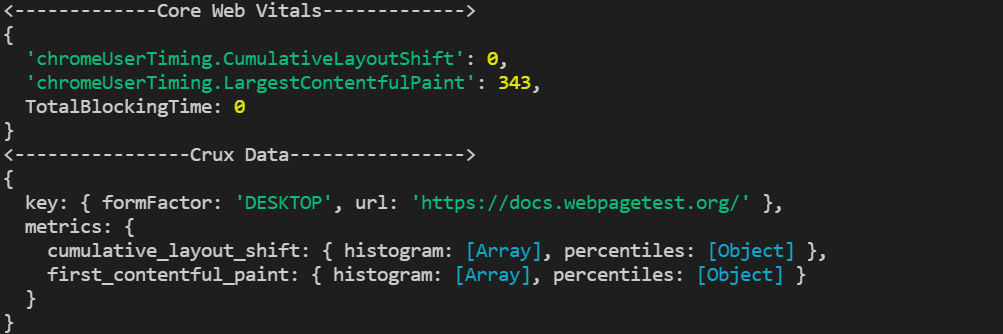
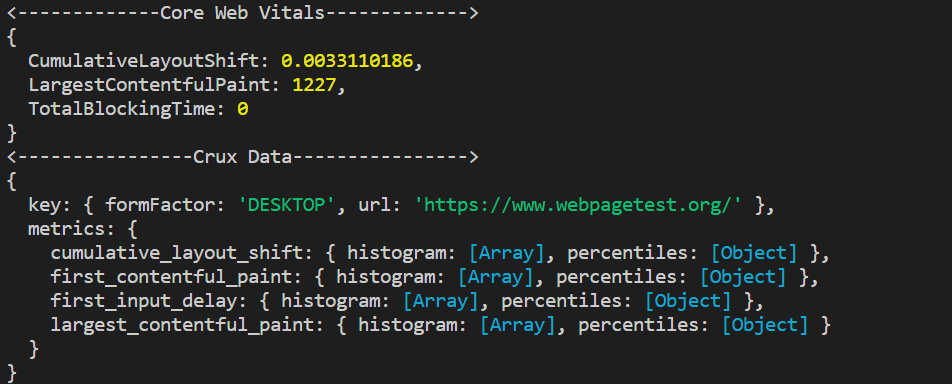
Easy to understand recipe

diff --git a/webvitals-crux.js b/webvitals-crux.js
@@ -2,13 +2,7 @@ const WebPageTest = require("webpagetest");
 
 const wpt = new WebPageTest("https://www.webpagetest.org", "YOUR_API_KEY");
 
-keys = [
-  "chromeUserTiming.CumulativeLayoutShift",
-  "chromeUserTiming.LargestContentfulPaint",
-  "TotalBlockingTime",
-];
-
-let testURL = "https://docs.webpagetest.org/"; //Your URL here
+let testURL = "https://www.webpagetest.org/"; //Your URL here
 
 let options = {
   firstViewOnly: true,
@@ -19,15 +13,12 @@ let options = {
 
 wpt.runTest(testURL, options, (err, result) => {
   if (result) {
-    const data = keys.reduce(
-      (key, value) => ({
-        ...key,
-        [value]: result.data.average.firstView[value],
-      }),
-      {}
-    );
     console.log("<-------------Core Web Vitals------------->");
-    console.log(data);
+    console.log({
+      CumulativeLayoutShift: result.data.average.firstView["chromeUserTiming.CumulativeLayoutShift"],
+      LargestContentfulPaint: result.data.average.firstView["chromeUserTiming.LargestContentfulPaint"],
+      TotalBlockingTime: result.data.average.firstView["TotalBlockingTime"],
+    });
 
     if (result.data.median.firstView.CrUX !== undefined) {
       console.log("<----------------Crux Data---------------->");
@@ -39,3 +30,4 @@ wpt.runTest(testURL, options, (err, result) => {
     console.log(err);
   }
 });
+

diff --git a/README.md b/README.md
@@ -128,13 +128,7 @@ const WebPageTest = require("webpagetest");
 
 const wpt = new WebPageTest("https://www.webpagetest.org", "YOUR_API_KEY");
 
-keys = [
-  "chromeUserTiming.CumulativeLayoutShift",
-  "chromeUserTiming.LargestContentfulPaint",
-  "TotalBlockingTime",
-];
-
-let testURL = "https://docs.webpagetest.org/"; //Your URL here
+let testURL = "https://www.webpagetest.org/"; //Your URL here
 
 let options = {
   firstViewOnly: true,
@@ -145,15 +139,12 @@ let options = {
 
 wpt.runTest(testURL, options, (err, result) => {
   if (result) {
-    const data = keys.reduce(
-      (key, value) => ({
-        ...key,
-        [value]: result.data.average.firstView[value],
-      }),
-      {}
-    );
     console.log("<-------------Core Web Vitals------------->");
-    console.log(data);
+    console.log({
+      CumulativeLayoutShift: result.data.average.firstView["chromeUserTiming.CumulativeLayoutShift"],
+      LargestContentfulPaint: result.data.average.firstView["chromeUserTiming.LargestContentfulPaint"],
+      TotalBlockingTime: result.data.average.firstView["TotalBlockingTime"],
+    });
 
     if (result.data.median.firstView.CrUX !== undefined) {
       console.log("<----------------Crux Data---------------->");
